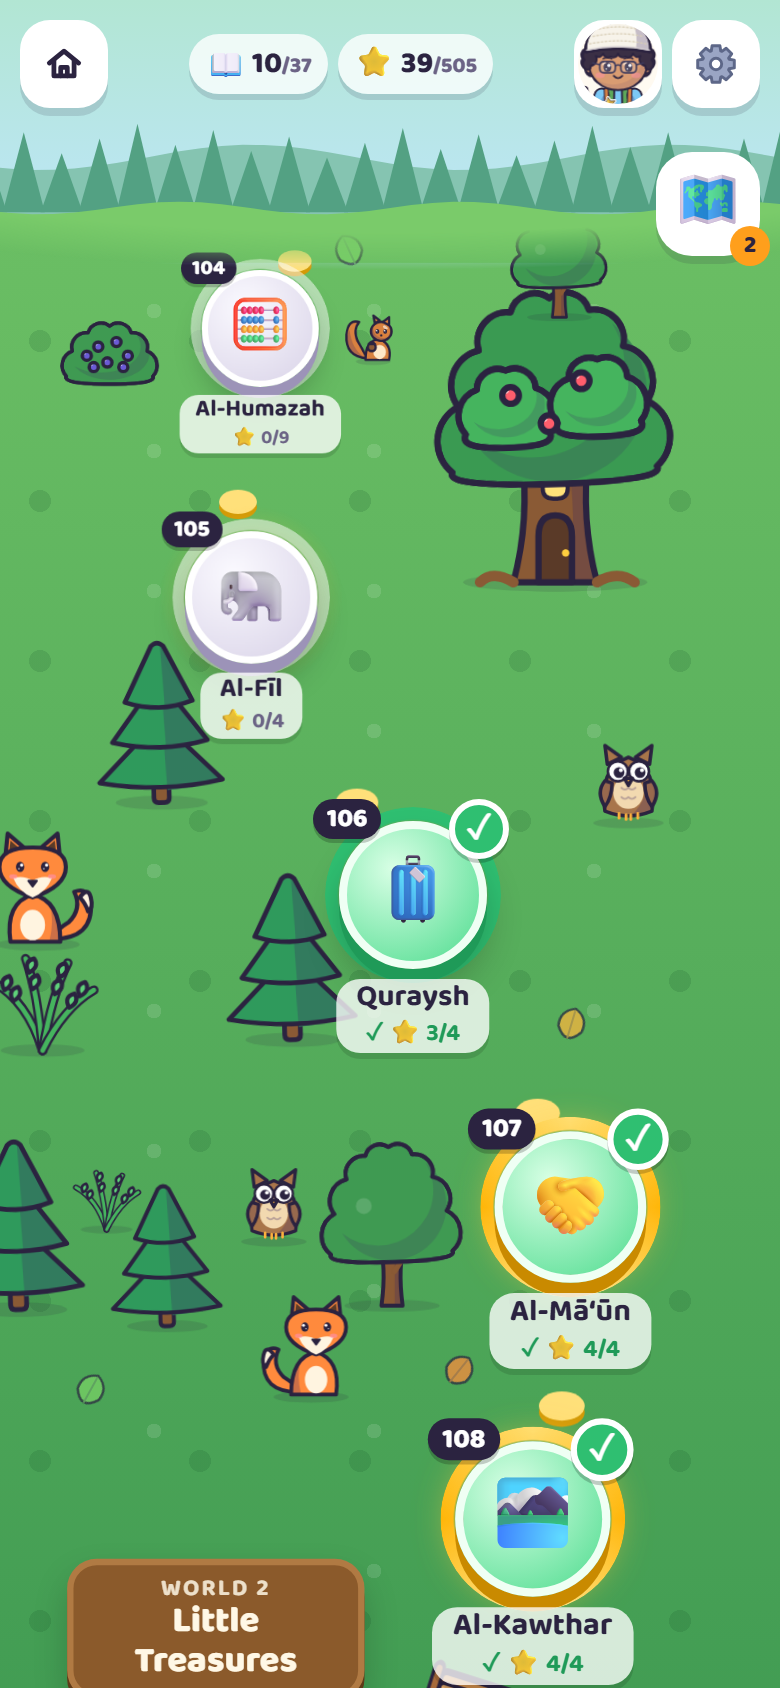
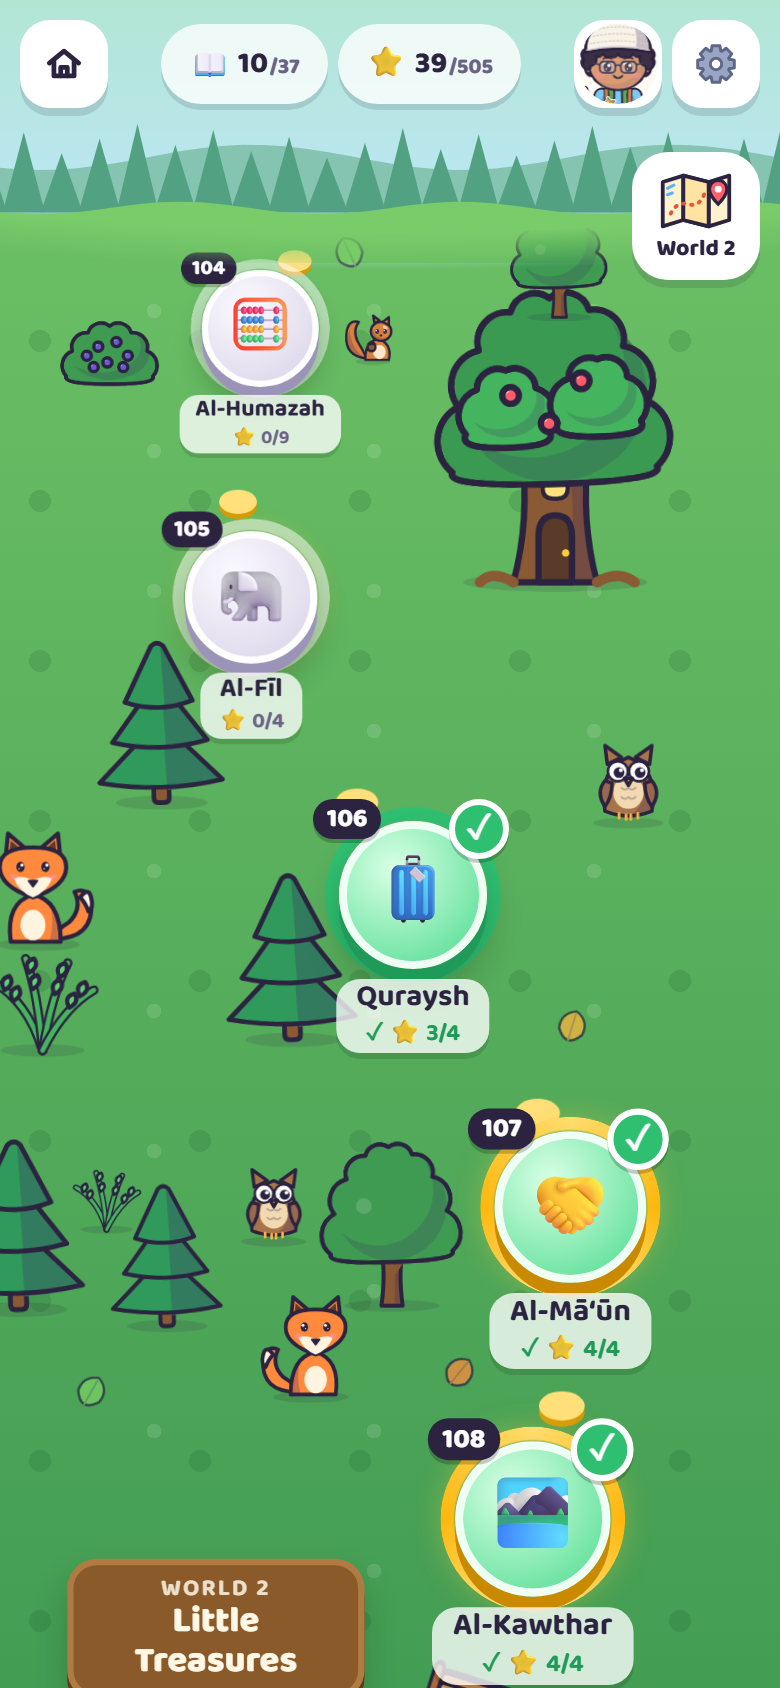
Little Hafiz Quest v2.4.5
- The phone's bars blend in: the status bar's color (theme-color) follows
  the top of each screen (the top bar over the world's sky, the start
  screen's sky, the map's world); behind a notch or status bar the page
  shows the top bar's own color, or the screen itself on the map and the
  start screen; the start screen no longer shows a light blue band at the
  bottom on tall phones, and the page color under the navigation bar
  matches each screen
- Installed on Android, the game runs full screen (no status or
  navigation bar; swipe from an edge to see them)
- Map: the 📖 and ⭐ counters are centered; the worlds button is a drawn
  folded map with "World N" under it, updating as you scroll; the list
  of worlds is a card with each world's name, and each icon stands on
  its own world's sky and ground
- README and screenshots updated

Claude-Session: https://claude.ai/code/session_01G32LazbMFB5CEeB9eK52fY

diff --git a/css/game.css b/css/game.css
@@ -239,6 +239,8 @@ svg.i {
   padding-left: var(--gutl);
   padding-right: var(--gutr);
 }
+/* behind the phone's status bar (when the page reaches under it: installed, fullscreen, notches): the top
+   bar's own color on screens that have one; elsewhere the screen shows through */
 body::before {
   content: '';
   position: fixed;
@@ -247,7 +249,12 @@ body::before {
   right: 0;
   height: env(safe-area-inset-top, 0px);
   z-index: 13;
-  background: var(--bg1);
+  background: transparent;
+}
+body.hasbar::before {
+  background: var(--barbg);
+  -webkit-backdrop-filter: blur(12px);
+  backdrop-filter: blur(12px);
 }
 .screen {
   animation: enter 0.45s cubic-bezier(0.2, 1.4, 0.4, 1);
@@ -2206,7 +2213,15 @@ details.adult summary::-webkit-details-marker {
   bottom: 0;
   left: 0;
   overflow: hidden;
-  background: #bfe6ff;
+  background: #967d80; /* the shaded ledge at the bottom of the picture, which stops short on tall phones */
+}
+:root[data-mode='dim'] .splash {
+  background: #584e69;
+}
+@media (prefers-color-scheme: dark) {
+  :root:not([data-mode='light']) .splash {
+    background: #584e69;
+  }
 }
 .sp-art {
   position: absolute;
@@ -2713,7 +2728,7 @@ body.v-map::after {
   z-index: 11;
   display: flex;
   flex-direction: column;
-  align-items: center;
+  align-items: flex-end;
   gap: 8px;
 }
 .wr-toggle {
@@ -6381,4 +6396,123 @@ body {
 }
 .helpcard h3 {
   text-align: center;
+}
+
+/* ---------- v2.4.5 ---------- */
+/* the map's 📖 and ⭐ counters: icon, number and total centered in the box */
+.hud .hud-stars {
+  display: inline-flex;
+  align-items: center;
+  justify-content: center;
+  gap: 4px;
+  height: 40px;
+  padding: 0 14px;
+  line-height: 1;
+}
+.hud-stars b,
+.hud-stars small {
+  line-height: 1;
+}
+.hud-stars small {
+  align-self: center;
+  margin: 3px 0 0 -3px; /* the small total sits right after the number, on its baseline */
+}
+/* the worlds button: a little folded map, with the world on screen written under it */
+.wr-toggle {
+  width: 64px;
+  height: 64px;
+  padding: 4px 0 6px;
+  display: flex;
+  flex-direction: column;
+  align-items: center;
+  justify-content: center;
+  gap: 2px;
+}
+.wr-mapic {
+  width: 38px;
+  height: 32px;
+  display: block;
+}
+.wr-toggle .wr-cur {
+  position: static;
+  min-width: 0;
+  height: auto;
+  background: none;
+  color: var(--ink);
+  font-size: 11.5px;
+  font-weight: 800;
+  line-height: 1;
+  white-space: nowrap;
+}
+.wrail.open .wr-toggle .wr-cur {
+  color: #2b2340;
+}
+/* the list of worlds: a card, one row per world */
+.wr-list {
+  flex-direction: column;
+  align-items: stretch;
+  gap: 4px;
+  width: 206px;
+  max-height: calc(100vh - 170px);
+  max-height: calc(100dvh - 170px);
+  overflow-y: auto;
+  padding: 8px;
+  border-radius: 22px;
+}
+.wr-list .wr {
+  width: auto;
+  height: auto;
+  display: flex;
+  align-items: center;
+  gap: 10px;
+  padding: 5px 8px 5px 5px;
+  border-radius: 16px;
+  background: none;
+  text-align: left;
+  transform: none;
+  box-shadow: none;
+}
+.wr-list .wr.on {
+  background: var(--c14, rgba(255, 200, 61, 0.22));
+  box-shadow: inset 0 0 0 2px var(--wc);
+  transform: none;
+}
+.wr-dot {
+  position: relative;
+  flex: none;
+  width: 44px;
+  height: 44px;
+  border-radius: 50%;
+  background: conic-gradient(var(--wc) calc(var(--p) * 1%), rgba(0, 0, 0, 0.12) 0);
+}
+.wr-list .wr-ic {
+  top: 3px;
+  right: 3px;
+  bottom: 3px;
+  left: 3px;
+}
+.wr-ic svg {
+  width: 72%;
+  height: 72%;
+  margin-top: 6%;
+}
+.wr-tx {
+  display: flex;
+  flex-direction: column;
+  min-width: 0;
+  line-height: 1.15;
+}
+.wr-tx b {
+  font-size: 15px;
+}
+.wr-tx small {
+  font-size: 12px;
+  font-weight: 700;
+  color: var(--soft);
+  white-space: nowrap;
+  overflow: hidden;
+  text-overflow: ellipsis;
+}
+.wr.done .wr-tx b {
+  color: var(--go);
 }

diff --git a/js/map.js b/js/map.js
@@ -384,20 +384,30 @@
       root.querySelectorAll('.mamb').forEach((el) => io.observe(el));
     }
 
-    /* world rail: a floating world-map button (under the settings button) that opens the list of worlds;
-       the world on screen is highlighted, and picking one jumps there */
+    /* world rail: a floating world-map button (under the settings button) saying which world is on screen;
+       it opens a card of every world (each icon on its own sky and ground), and picking one jumps there */
     const railEl = document.createElement('nav');
     railEl.className = 'wrail';
     railEl.setAttribute('aria-label', 'Worlds');
+    const MAP_ICON =
+      '<svg class="wr-mapic" viewBox="0 0 48 40" aria-hidden="true"><g stroke="#2b2340" stroke-width="2.4" stroke-linejoin="round">' +
+      '<path d="M3 8L16 4L32 8L45 4V32L32 36L16 32L3 36Z" fill="#fff3cf"/><path d="M16 4V32M32 8V36" fill="none"/>' +
+      '<path d="M16 4L32 8V36L16 32Z" fill="#ffe3a3"/></g>' +
+      '<path d="M8 28Q12 20 19 22T29 16Q34 13 38 15" fill="none" stroke="#e8543a" stroke-width="2.4" stroke-linecap="round" stroke-dasharray="1 4.2"/>' +
+      '<path d="M38 7C34.7 7 32.5 9.5 32.5 12.5C32.5 16.5 38 22 38 22S43.5 16.5 43.5 12.5C43.5 9.5 41.3 7 38 7Z" fill="#ff5d6c" stroke="#2b2340" stroke-width="2"/><circle cx="38" cy="12.5" r="2.2" fill="#fff"/>' +
+      '<path d="M6 12L10 10M6 16L9 15" stroke="#5fb2ff" stroke-width="2" stroke-linecap="round"/></svg>';
     function drawRail() {
+      const cur = Math.max(0, railW);
       railEl.innerHTML =
-        `<button class="wr-toggle" data-act="worlds" aria-expanded="false" aria-label="Jump to a world"><span class="wr-map">🗺</span><span class="wr-cur">${Math.max(1, railW + 1)}</span></button><div class="wr-list">` +
+        `<button class="wr-toggle" data-act="worlds" aria-expanded="false" aria-label="Worlds: jump to another world">${MAP_ICON}<span class="wr-cur">World ${cur + 1}</span></button><div class="wr-list">` +
         cfg.worlds
           .map((w, wi) => {
-            const pr = cfg.worldProgress(wi);
+            const pr = cfg.worldProgress(wi),
+              pl = pal(wi);
             const names = ART.PROPS_BY_WORLD[wi] || [];
             const ic = ART.props[cfg.worldIcon ? cfg.worldIcon(wi) : names[0]] || '';
-            return `<button class="wr ${pr.done ? 'done' : ''}" data-act="world" data-w="${wi}" style="--wc:${pal(wi).accent};--p:${Math.round(pr.frac * 100)}" aria-label="World ${wi + 1}: ${w.name}"><span class="wr-ic">${ic}</span><span class="wr-n">${wi + 1}</span></button>`;
+            const land = `background:linear-gradient(180deg,${pl.sky[0]},${pl.sky[1]} 58%,${pl.ground[0]} 58%,${pl.ground[1]})`;
+            return `<button class="wr ${pr.done ? 'done' : ''} ${wi === cur ? 'on' : ''}" data-act="world" data-w="${wi}" style="--wc:${pl.accent};--p:${Math.round(pr.frac * 100)}" aria-label="World ${wi + 1}: ${w.name}"><span class="wr-dot"><span class="wr-ic" style="${land}">${ic}</span></span><span class="wr-tx"><b>World ${wi + 1}${pr.done ? ' ✓' : ''}</b><small>${w.name}</small></span></button>`;
           })
           .reverse()
           .join('') +
@@ -414,7 +424,7 @@
       railW = b.wi;
       railEl.querySelectorAll('.wr').forEach((el) => el.classList.toggle('on', +el.dataset.w === b.wi));
       const cur = railEl.querySelector('.wr-cur');
-      if (cur) cur.textContent = b.wi + 1;
+      if (cur) cur.textContent = 'World ' + (b.wi + 1);
       if (cfg.onWorld) cfg.onWorld(b.wi);
     }
 

diff --git a/js/game.js b/js/game.js
@@ -37,7 +37,7 @@
 (function () {
   'use strict';
 
-  const VERSION = '2.4.4';
+  const VERSION = '2.4.5';
   const DATA = window.LHQ_DATA;
   if (!DATA || !Array.isArray(DATA.surahs)) throw new Error('Little Hafiz Quest: js/data.js did not load.');
   const ART = window.LHQ_ART;
@@ -1229,7 +1229,28 @@
     render(true);
   }
   const GAMES = ['learn', 'words', 'path', 'order'];
-  let sceneKeyNow = '';
+  let sceneKeyNow = '',
+    sceneSky = '#bfe6ff'; // the top of the world's sky behind the screen
+  /* The phone's own bars blend in: the status bar takes the color at the top of each screen (theme-color),
+     and the page paints behind both bars in the screen's own colors (see body::before and --pagebg). */
+  const themeMeta = document.querySelector('meta[name="theme-color"]');
+  function setTopColor(c) {
+    if (themeMeta && themeMeta.getAttribute('content') !== c) themeMeta.setAttribute('content', c);
+  }
+  const SPLASH_SKY = ['#7fc8ff', '#0d0f33'], // the start screen's sky (art.js lhq-g-sky / lhq-g-skyn), day / night
+    SPLASH_GROUND = ['#967d80', '#584e69']; // and the shaded ledge at its bottom
+  function blendBars() {
+    const night = isNight(),
+      hasBar = !!$app.querySelector('.bar');
+    document.body.classList.toggle('hasbar', hasBar);
+    if (st.view === 'splash' || st.view === 'summit') {
+      setTopColor(SPLASH_SKY[+night]);
+      document.documentElement.style.setProperty('--pagebg', SPLASH_GROUND[+night]);
+    } else if (st.view === 'map') {
+      const g = ART.WORLDS[0]; // the map's bottom is the first world's meadow
+      document.documentElement.style.setProperty('--pagebg', night && g.dim ? g.dim.ground[1] : g.ground[1]);
+    } else setTopColor(hasBar ? mixHex(sceneSky, night ? '#0e0f2d' : '#cdebff', 0.86) : sceneSky); // the top bar (--barbg) over the sky
+  }
   /* the living background behind lessons: the world's sky, a strip of ground with props, gentle motion */
   function setScene(wi) {
     const night = isNight();
@@ -1239,6 +1260,7 @@
     const key = wi == null ? 'none' : wi + (night ? 'n' : 'd');
     if (key === sceneKeyNow) return;
     sceneKeyNow = key;
+    if (sky) sceneSky = sky[0];
     // what shows past the end of the page on a phone: the ground of this world
     const gw = ART.WORLDS[wi == null ? 0 : wi];
     document.documentElement.style.setProperty('--pagebg', night && gw.dim ? gw.dim.ground[1] : gw.ground[1]);
@@ -1313,6 +1335,7 @@
     else if (scroll) window.scrollTo({ top: 0, behavior: 'auto' });
     if (st.view === 'surah') showSelectedCheckpoint();
     if (st.view === 'path') showStoneSet(false);
+    blendBars();
     if (st.view === 'bag') {
       // keep the chosen category in view in its sideways row
       const tabs = document.getElementById('wtabs'),
@@ -1469,6 +1492,10 @@
       status: surahStatus,
       explorerSVG: () => explorer({ view: 'front' }),
       worldIcon: (wi) => WORLD_ICON[wi],
+      onWorld: (wi) => {
+        const w = ART.WORLDS[wi];
+        setTopColor(isNight() && w.dim ? w.dim.sky[0] : w.sky[0]); // the status bar follows the world in view
+      },
       worldProgress: (wi) => {
         const list = S.filter((s) => worldOf(s) === wi);
         const done = list.filter((s) => surahDone(s)).length;

diff --git a/index.html b/index.html
@@ -21,8 +21,8 @@
 
   <!-- Home Screen app -->
   <link rel="manifest" href="manifest.webmanifest">
-  <meta name="theme-color" content="#bfe6ff" media="(prefers-color-scheme: light)">
-  <meta name="theme-color" content="#0e0f2d" media="(prefers-color-scheme: dark)">
+  <!-- the status bar's color: js/game.js keeps it matching the top of each screen -->
+  <meta name="theme-color" content="#7fc8ff">
   <meta name="mobile-web-app-capable" content="yes">
   <meta name="apple-mobile-web-app-capable" content="yes">
   <meta name="apple-mobile-web-app-title" content="Hafiz Quest">

diff --git a/sw.js b/sw.js
@@ -14,7 +14,7 @@
  */
 'use strict';
 
-const VERSION = '2.4.4';
+const VERSION = '2.4.5';
 const SHELL_CACHE = `lhq2-shell-${VERSION}`;
 const AUDIO_CACHE = 'lhq2-audio'; // keep across app updates; change only if the audio files change
 const DATA_CACHE = 'lhq2-data'; // small lists that can change between versions (reciters, versions)

diff --git a/README.md b/README.md
@@ -51,7 +51,7 @@ Free, no ads, no accounts, no tracking. It works on iPhone, iPad, Android, and c
 ## How to play (for the grown-up)
 
 1. **Make an explorer.** Tap **Begin**, pick a name, boy or girl, a skin tone, a hair style (boys and girls each have seven, bald included) and a hair color (girls can also choose a hijab and its color). Girls wear the crowns as tiaras. Each child can have their own explorer, with their own stars and treasures (tap the name on the start screen). Explorers can be removed in the Grown-up Corner, all of them if you like; Begin then makes a new one.
-2. **Walk the map.** Start at 🚩 An-Nās at the bottom and climb. Tap a sūrah: the explorer pops up beside it, walks in, and the lesson opens. Each sūrah's page has a 🌙 **Bismillah** button that gently breathes when you arrive, a reminder to say Bismillah first, and a 📖 **Read** button for children who can read the muṣḥaf: the whole sūrah in Arabic. There, hold an āyah to color its words in the same order as Word Steps, and Listen plays the whole sūrah or just the chosen āyah. Each world has its own border to cross (a river, the sea, a gorge, a gate, the clouds, a frozen river), and the scenery on the horizon changes as you climb. The 🗺 button under the settings button opens the list of worlds to jump between them. You can go back to any sūrah at any time to revise.
+2. **Walk the map.** Start at 🚩 An-Nās at the bottom and climb. Tap a sūrah: the explorer pops up beside it, walks in, and the lesson opens. Each sūrah's page has a 🌙 **Bismillah** button that gently breathes when you arrive, a reminder to say Bismillah first, and a 📖 **Read** button for children who can read the muṣḥaf: the whole sūrah in Arabic. There, hold an āyah to color its words in the same order as Word Steps, and Listen plays the whole sūrah or just the chosen āyah. Each world has its own border to cross (a river, the sea, a gorge, a gate, the clouds, a frozen river), and the scenery on the horizon changes as you climb. The little map button under the settings button shows which world you're in; tap it for the list of worlds and jump to any of them. You can go back to any sūrah at any time to revise.
 3. **Pick a step** in each sūrah. The quest comes first (Look & Repeat, then Word Steps), then the review games (Stepping Stones, then the Picture Puzzle). Each checkpoint has 4 stars, one for each:
    1. **👀 Look & Repeat.** Read the āyah. Your child repeats it three times while doing the action (pop a bubble each time), then says it with only the picture showing. The loop button at the top of the āyah sets how many times Listen plays it: once, 3, 10 or 99 times (until Stop); its ring empties and the number counts down as the plays go by. After each new āyah, chain from the first āyah up to the new one. Tap the numbered dots at the top to practice any āyah in that part. The “Do it” actions (a hand movement for each āyah) start switched off; switch them on in the Grown-up Corner. Progress is saved āyah by āyah, so you can stop and carry on later.
    2. **Word Steps.** Build the āyah one word at a time, always going back to the first word, with the āyah's picture at the top. Tap any word to hear just that word. Then your child says it all while you reveal each word; every colored box stays exactly where it was while practicing.
@@ -90,7 +90,7 @@ The newest version opens by default. Tap the version badge on the start screen (
 
 **Android**
 1. Open the link in **Chrome**.
-2. Tap **⋮** → **Add to Home screen** (or **Install app**).
+2. Tap **⋮** → **Add to Home screen** (or **Install app**). The installed game runs full screen, with no status or navigation bar in the way; swipe from the top or bottom edge to see them for a moment. (Installed before v2.4.5? Remove it and add it again to get this.)
 3. For full offline use: ⚙ → Download recitations → **Save all recitations**.
 
 **Computer**: just open the link. Chrome and Edge also offer an "Install" button in the address bar.
